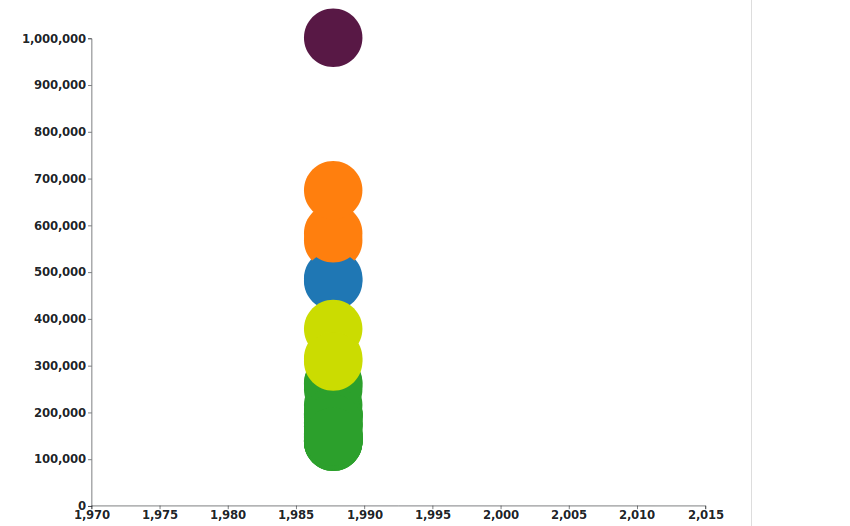
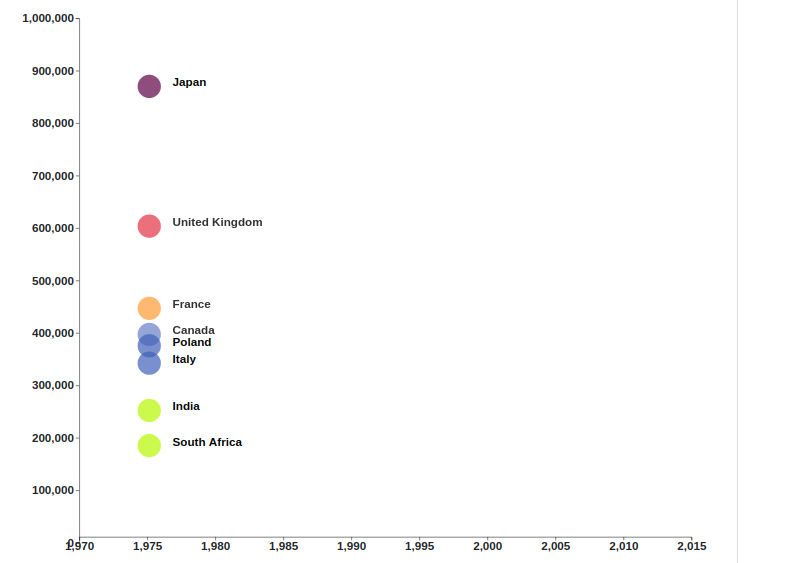
" - Réglage du graph - Changement petite photo grpah - Quelques ajustement '

diff --git a/public/js/pollution/draw.js b/public/js/pollution/draw.js
@@ -160,6 +160,7 @@ export const drawChart = StateApp => {
         .enter()
             .append('g')
             .attr('class', 'bubble-country')
+            
 
     // Definition of the force Simulation, especially collapse force
     const s = 0.003;
@@ -272,15 +273,18 @@ export const drawAxisGraph = (StateApp, circles) => {
 
     circles.append('text')
         .attr('class','titrePaysGraphe')
-        .attr('dx', ()  => year == '1975' ? '2em' : '-11em')
+        .attr('dx', ()  => year == '1975' ? '2em' : '-10em')
         .attr('fill', 'black')
         .style('font-weight', 'bold')
         .style('font-size','20px')
         .text(d => d.name.replace(/\(.[^(]*\)/g,''))
+        .style('display',d => d.radius != 0 ? '' : 'none')
+
+    d => object.onchange = function(){myScript};
 
     StateApp.getForce()
-        .on('tick', () => circles.attr('transform', d => 'translate('+posYear()+','+ysccaleres(d.value)+')'));
-    StateApp.getForce().alpha(1).restart();  
+        .on('tick', () => circles.transition().duration(200).attr('transform', d => 'translate('+posYear()+','+ysccaleres(d.value)+')'));
+    //StateApp.getForce().alpha(1).restart();  
 
     svg.append("g")
         .attr('id',"graph")
@@ -338,9 +342,7 @@ export const drawAxisGraph = (StateApp, circles) => {
             svg.select(".yaxis")
             .transition()
             .duration(750)
-            .call(d3.axisLeft(yscale));
-        }); 
-        
+            .call(d3.axisLeft(yscale));});       
    
     
 };

diff --git a/public/js/pollution/handlers.js b/public/js/pollution/handlers.js
@@ -27,8 +27,7 @@ export const paramsChangedHandler = StateApp => async () => {
     updateData(StateApp, lastData, newData, year);    
     updateChart(StateApp);
     updateTotal(StateApp);
-    console.log("d  ns le console")
-    console.log(getCheckedRadioButton("radio-t"))
+    
 }
 
 export const switchRepresentation = StateApp => () => {
@@ -68,6 +67,8 @@ export const updateRadius = ({ newRadius, simulation, data, transitionDuration, 
             }
         })
     simulation.alpha(1).restart();
+    console.log(circleTriggered)
+    //d3.select('.titrePaysGraphe').style('display',d => d.radius != 0 ? '' : 'none')
     return Promise.resolve();
 };
 
